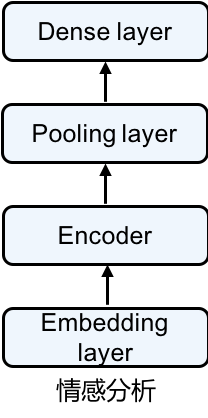
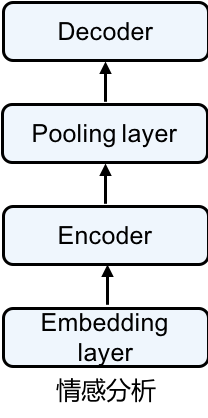
update notebook

Changed region(s): [[0.1731, 0.0311, 0.8365, 0.1244]]

diff --git a/chapter_natural-language-processing/sentiment-analysis.md b/chapter_natural-language-processing/sentiment-analysis.md
@@ -1,6 +1,6 @@
 # 情感分析
 
-情感分析是非常重要的一项自然语言处理的任务。例如对于Amazon会对网站所销售的每个产品的评论进行情感分类，Netflix或者IMDb会对每部电影的评论进行情感分类，从而帮助各个平台提供更好的改进产品，提升用户体验。本节介绍如何使用gluon来创建一个情感分类模型，目标是给定一句话，判断这句话包含的是“正面”还是“负面”的情绪。为此，我们构造了一个简单的神经网络，其中包括embedding层，encoder层（bidirectional LSTM），pooling层以及dense层，来判断IMDb上电影评论蕴含的情感。下面就让我们一起来构造这个情感分析模型吧。
+情感分析是非常重要的一项自然语言处理的任务。例如对于Amazon会对网站所销售的每个产品的评论进行情感分类，Netflix或者IMDb会对每部电影的评论进行情感分类，从而帮助各个平台提供更好的改进产品，提升用户体验。本节介绍如何使用gluon来创建一个情感分类模型，目标是给定一句话，判断这句话包含的是“正面”还是“负面”的情绪。为此，我们构造了一个简单的神经网络，其中包括embedding层，encoder（bidirectional LSTM），decoder，来判断IMDb上电影评论蕴含的情感。下面就让我们一起来构造这个情感分析模型吧。
 
 
 ## 准备工作
